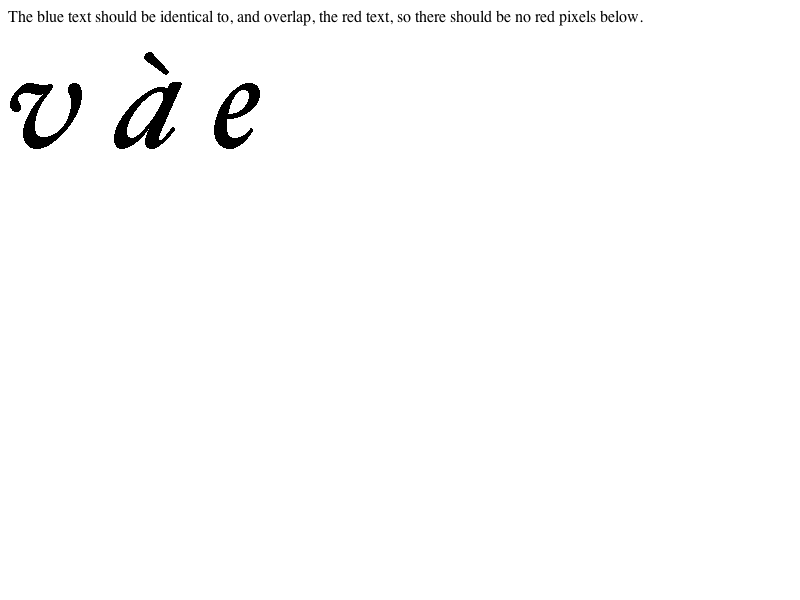
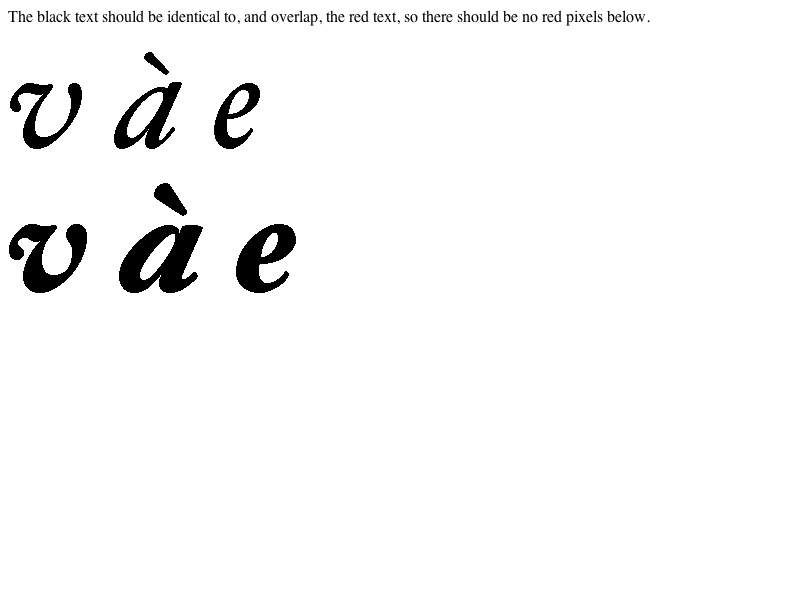
Follow-up fix for <rdar://problem/10191243> Glyph variants (line final swashes) appear where they should not
Reviewed by Simon Fraser.

Source/WebCore: 

* platform/graphics/cocoa/FontPlatformDataCocoa.mm:
(WebCore::FontPlatformData::ctFont): Check for Hoefler Text Black Italic as well.

LayoutTests: 

Added Hoefler Text Black Italic to the test case.

* fast/text/line-initial-and-final-swashes.html:
* platform/mac/fast/text/line-initial-and-final-swashes-expected.png:
* platform/mac/fast/text/line-initial-and-final-swashes-expected.txt:

git-svn-id: https://svn.webkit.org/repository/webkit/trunk@96374 268f45cc-cd09-0410-ab3c-d52691b4dbfc

diff --git a/LayoutTests/fast/text/line-initial-and-final-swashes.html b/LayoutTests/fast/text/line-initial-and-final-swashes.html
@@ -1,7 +1,11 @@
 <p>
-    The blue text should be identical to, and overlap, the red text, so there should be no red pixels below.
+    The black text should be identical to, and overlap, the red text, so there should be no red pixels below.
 </p>
 <div style="font-size: 144px; font-family: Hoefler Text; font-style: italic; -webkit-font-smoothing: none;">
+    <div style="color: red;">v a&#x0300; e</div>
+    <div style="margin-top: -144px;">v &#xe0; e</div>
+</div>
+<div style="font-size: 144px; font-family: Hoefler Text; font-style: italic; font-weight: bold; -webkit-font-smoothing: none;">
     <div style="color: red;">v a&#x0300; e</div>
     <div style="margin-top: -144px;">v &#xe0; e</div>
 </div>

diff --git a/Source/WebCore/platform/graphics/cocoa/FontPlatformDataCocoa.mm b/Source/WebCore/platform/graphics/cocoa/FontPlatformDataCocoa.mm
@@ -252,7 +252,7 @@ CTFontRef FontPlatformData::ctFont() const
         CTFontDescriptorRef fontDescriptor;
         RetainPtr<CFStringRef> postScriptName(AdoptCF, CTFontCopyPostScriptName(m_CTFont.get()));
         // Hoefler Text Italic has line-initial and -final swashes enabled by default, so disable them.
-        if (CFEqual(postScriptName.get(), CFSTR("HoeflerText-Italic")))
+        if (CFEqual(postScriptName.get(), CFSTR("HoeflerText-Italic")) || CFEqual(postScriptName.get(), CFSTR("HoeflerText-BlackItalic")))
             fontDescriptor = cascadeToLastResortAndDisableSwashesFontDescriptor();
         else
             fontDescriptor = cascadeToLastResortFontDescriptor();
